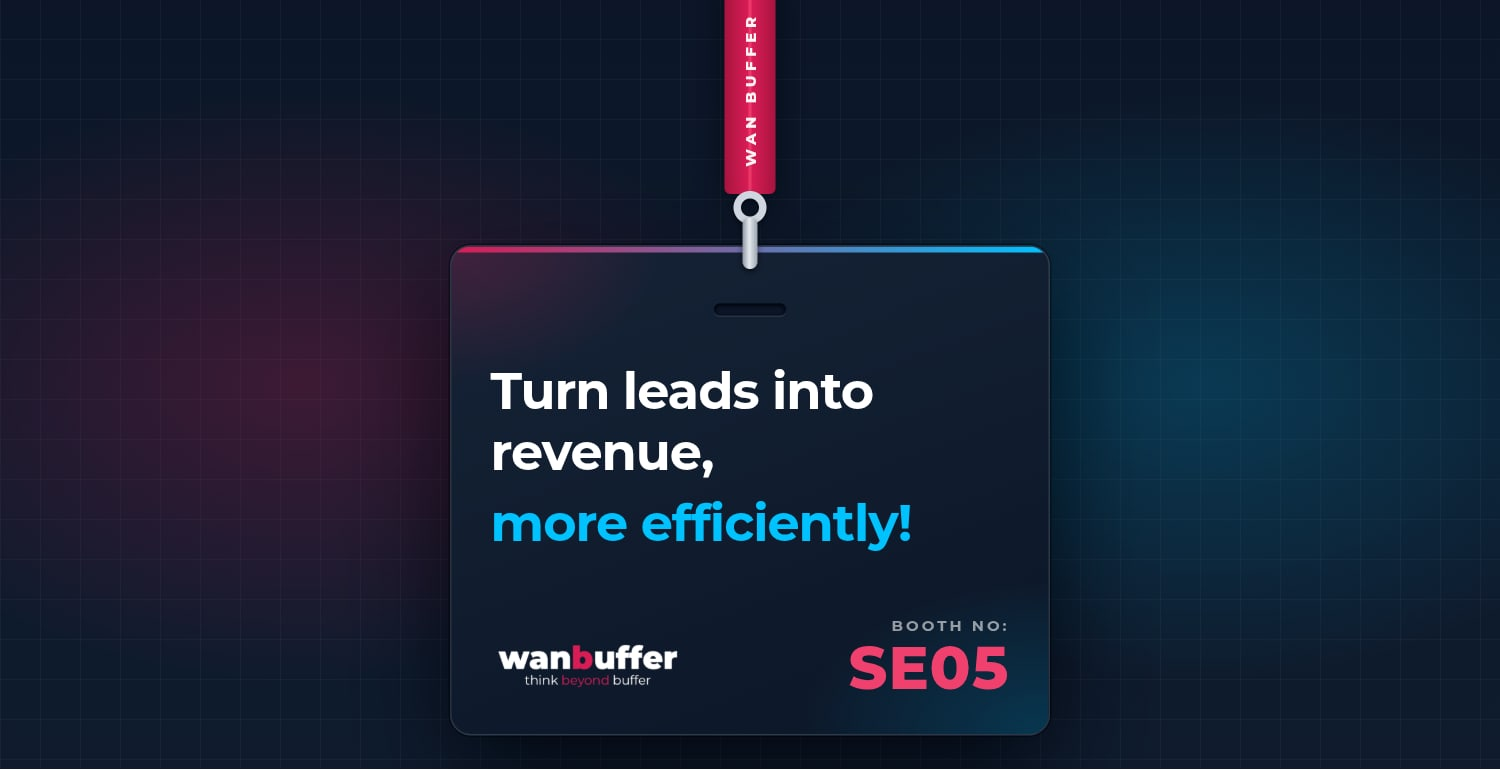
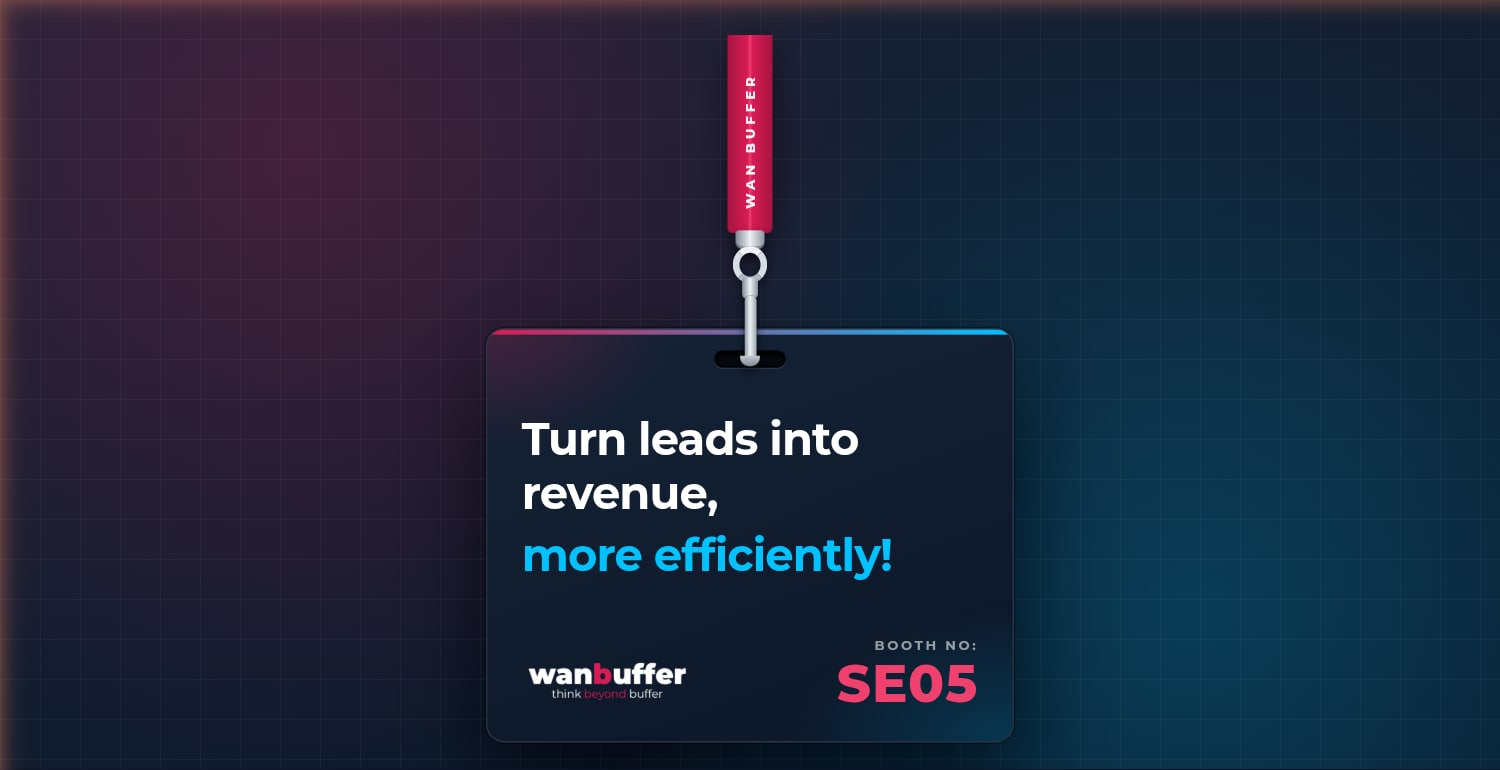
card pin updated

Changed region(s): [[0.0, 0.0, 1.0, 1.0], [0.3373, 0.8416, 0.46, 0.9039]]

diff --git a/web/app/site.css b/web/app/site.css
@@ -2604,13 +2604,16 @@ html.js .oi-evt-empty{opacity:1;transform:none}
 @keyframes oi-evt-badge-swing{0%,100%{transform:rotate(-1.2deg)}50%{transform:rotate(1.2deg)}}
 .oi-evt-badge-strap{display:flex;align-items:flex-end;justify-content:center;width:34px;height:clamp(110px,13vw,150px);background:linear-gradient(90deg,var(--red-dk) 0%,var(--red) 45%,var(--red-lt) 50%,var(--red) 55%,var(--red-dk) 100%);border-radius:0 0 4px 4px;box-shadow:0 8px 24px rgba(0,0,0,.35);padding-bottom:18px}
 .oi-evt-badge-strap span{writing-mode:vertical-rl;transform:rotate(180deg);font-family:var(--H);font-size:10px;font-weight:800;letter-spacing:.3em;text-transform:uppercase;color:var(--white);opacity:.95;white-space:nowrap}
-.oi-evt-badge-clip{position:relative;display:flex;flex-direction:column;align-items:center;margin-top:-2px;z-index:2}
-.oi-evt-badge-ring{width:22px;height:22px;border-radius:50%;border:5px solid #cfd6df;background:transparent;box-shadow:inset 0 1px 2px rgba(0,0,0,.4),0 2px 4px rgba(0,0,0,.4)}
-.oi-evt-badge-hook{width:10px;height:34px;margin-top:-4px;border-radius:5px 5px 6px 6px;background:linear-gradient(90deg,#8e97a3,#e6eaef 45%,#9aa3ae);box-shadow:0 2px 4px rgba(0,0,0,.45)}
-.oi-evt-badge-card{position:relative;width:min(100%,300px);margin-top:-16px;padding:38px 26px 24px;border-radius:14px;background:linear-gradient(160deg,var(--navy3) 0%,var(--navy) 100%);border:1px solid rgba(255,255,255,.1);box-shadow:0 30px 70px rgba(0,0,0,.5),0 0 0 1px rgba(0,0,0,.3);overflow:hidden}
+.oi-evt-badge-clip{position:relative;display:flex;flex-direction:column;align-items:center;margin-top:-2px;z-index:3;filter:drop-shadow(0 3px 4px rgba(0,0,0,.5))}
+.oi-evt-badge-crimp{width:22px;height:14px;border-radius:3px 3px 5px 5px;background:linear-gradient(90deg,#7f8894,#eef1f5 50%,#8d96a2);box-shadow:inset 0 -2px 0 rgba(0,0,0,.25)}
+.oi-evt-badge-ring{width:26px;height:28px;margin-top:-2px;border-radius:50%;border:5px solid #d7dde5;border-top-color:#eef1f5;border-bottom-color:#aeb7c2;background:transparent;box-sizing:border-box}
+.oi-evt-badge-swivel{width:12px;height:16px;margin-top:-4px;border-radius:3px 3px 4px 4px;background:linear-gradient(90deg,#7f8894,#eef1f5 50%,#8d96a2)}
+.oi-evt-badge-hook{position:relative;width:9px;height:50px;margin-top:-2px;border-radius:4px 4px 5px 5px;background:linear-gradient(90deg,#8e97a3,#eef1f5 45%,#9aa3ae);box-shadow:0 0 0 1px rgba(0,0,0,.2)}
+.oi-evt-badge-hook::after{content:'';position:absolute;left:50%;bottom:-3px;width:15px;height:8px;transform:translateX(-50%);border-radius:0 0 8px 8px;background:linear-gradient(180deg,#c3cbd4,#7f8894)}
+.oi-evt-badge-card{position:relative;width:min(100%,300px);margin-top:-26px;padding: 16px 26px 24px;border-radius:14px;background:linear-gradient(160deg,var(--navy3) 0%,var(--navy) 100%);border:1px solid rgba(255,255,255,.1);box-shadow:0 30px 70px rgba(0,0,0,.5),0 0 0 1px rgba(0,0,0,.3);overflow:hidden}
 .oi-evt-badge-card::before{content:'';position:absolute;inset:0;background:radial-gradient(60% 45% at 100% 100%,var(--ai-glow),transparent 70%),radial-gradient(50% 40% at 0% 0%,rgba(216,28,85,.22),transparent 70%);pointer-events:none}
 .oi-evt-badge-card::after{content:'';position:absolute;left:0;right:0;top:0;height:4px;background:linear-gradient(90deg,var(--red),var(--ai));}
-.oi-evt-badge-slot{display:block;width:48px;height:8px;margin:0 auto 30px;border-radius:4px;background:var(--navy);box-shadow:inset 0 1px 3px rgba(0,0,0,.8),0 1px 0 rgba(255,255,255,.08)}
+.oi-evt-badge-slot{position:relative;z-index:2;display:block;width:54px;height:13px;margin:0 auto 34px;border-radius:7px;background:#05090f;border:1px solid rgba(0,0,0,.8);box-shadow:inset 0 2px 3px rgba(0,0,0,.9),0 1px 0 rgba(255,255,255,.1)}
 .oi-evt-badge-headline{position:relative;margin:0 0 42px;font-family:var(--H);font-size:clamp(21px,2.2vw,26px);font-weight:700;line-height:1.2;letter-spacing:-.02em;color:var(--white)}
 .oi-evt-badge-headline span{display:block;color:var(--ai);margin-top:6px}
 .oi-evt-badge-foot{position:relative;display:flex;align-items:flex-end;justify-content:space-between;gap:16px}
@@ -2652,6 +2655,9 @@ html.js .oi-evt-empty{opacity:1;transform:none}
 .oi-evt-aside-card{background:var(--white);border:1px solid var(--silver);border-radius:16px;padding:22px;box-shadow:0 12px 40px rgba(11,22,39,.06)}
 .oi-evt-aside-title{font-family:var(--H);font-size:13px;font-weight:800;letter-spacing:.16em;text-transform:uppercase;color:var(--txt);margin:0 0 18px}
 .oi-evt-aside-dl{margin:0 0 20px;display:flex;flex-direction:column;gap:14px}
+.oi-evt-map{position:relative;overflow:hidden;border-radius:12px;border:1px solid var(--silver);background:var(--navy);aspect-ratio:4/3;margin-bottom:16px}
+.oi-evt-map iframe{display:block;width:100%;height:100%;border:0}
+.oi-evt-map-cta{margin-top:0}
 .oi-evt-aside-dl div{display:grid;gap:4px}
 .oi-evt-aside-dl dt{font-family:var(--H);font-size:9px;font-weight:800;letter-spacing:.18em;text-transform:uppercase;color:var(--txtm)}
 .oi-evt-aside-dl dd{font-family:var(--B);font-size:14px;font-weight:400;color:var(--txt);line-height:1.45;margin:0}

diff --git a/web/public/site-full.css b/web/public/site-full.css
@@ -2604,13 +2604,16 @@ html.js .oi-evt-empty{opacity:1;transform:none}
 @keyframes oi-evt-badge-swing{0%,100%{transform:rotate(-1.2deg)}50%{transform:rotate(1.2deg)}}
 .oi-evt-badge-strap{display:flex;align-items:flex-end;justify-content:center;width:34px;height:clamp(110px,13vw,150px);background:linear-gradient(90deg,var(--red-dk) 0%,var(--red) 45%,var(--red-lt) 50%,var(--red) 55%,var(--red-dk) 100%);border-radius:0 0 4px 4px;box-shadow:0 8px 24px rgba(0,0,0,.35);padding-bottom:18px}
 .oi-evt-badge-strap span{writing-mode:vertical-rl;transform:rotate(180deg);font-family:var(--H);font-size:10px;font-weight:800;letter-spacing:.3em;text-transform:uppercase;color:var(--white);opacity:.95;white-space:nowrap}
-.oi-evt-badge-clip{position:relative;display:flex;flex-direction:column;align-items:center;margin-top:-2px;z-index:2}
-.oi-evt-badge-ring{width:22px;height:22px;border-radius:50%;border:5px solid #cfd6df;background:transparent;box-shadow:inset 0 1px 2px rgba(0,0,0,.4),0 2px 4px rgba(0,0,0,.4)}
-.oi-evt-badge-hook{width:10px;height:34px;margin-top:-4px;border-radius:5px 5px 6px 6px;background:linear-gradient(90deg,#8e97a3,#e6eaef 45%,#9aa3ae);box-shadow:0 2px 4px rgba(0,0,0,.45)}
-.oi-evt-badge-card{position:relative;width:min(100%,300px);margin-top:-16px;padding:38px 26px 24px;border-radius:14px;background:linear-gradient(160deg,var(--navy3) 0%,var(--navy) 100%);border:1px solid rgba(255,255,255,.1);box-shadow:0 30px 70px rgba(0,0,0,.5),0 0 0 1px rgba(0,0,0,.3);overflow:hidden}
+.oi-evt-badge-clip{position:relative;display:flex;flex-direction:column;align-items:center;margin-top:-2px;z-index:3;filter:drop-shadow(0 3px 4px rgba(0,0,0,.5))}
+.oi-evt-badge-crimp{width:22px;height:14px;border-radius:3px 3px 5px 5px;background:linear-gradient(90deg,#7f8894,#eef1f5 50%,#8d96a2);box-shadow:inset 0 -2px 0 rgba(0,0,0,.25)}
+.oi-evt-badge-ring{width:26px;height:28px;margin-top:-2px;border-radius:50%;border:5px solid #d7dde5;border-top-color:#eef1f5;border-bottom-color:#aeb7c2;background:transparent;box-sizing:border-box}
+.oi-evt-badge-swivel{width:12px;height:16px;margin-top:-4px;border-radius:3px 3px 4px 4px;background:linear-gradient(90deg,#7f8894,#eef1f5 50%,#8d96a2)}
+.oi-evt-badge-hook{position:relative;width:9px;height:50px;margin-top:-2px;border-radius:4px 4px 5px 5px;background:linear-gradient(90deg,#8e97a3,#eef1f5 45%,#9aa3ae);box-shadow:0 0 0 1px rgba(0,0,0,.2)}
+.oi-evt-badge-hook::after{content:'';position:absolute;left:50%;bottom:-3px;width:15px;height:8px;transform:translateX(-50%);border-radius:0 0 8px 8px;background:linear-gradient(180deg,#c3cbd4,#7f8894)}
+.oi-evt-badge-card{position:relative;width:min(100%,300px);margin-top:-26px;padding: 16px 26px 24px;border-radius:14px;background:linear-gradient(160deg,var(--navy3) 0%,var(--navy) 100%);border:1px solid rgba(255,255,255,.1);box-shadow:0 30px 70px rgba(0,0,0,.5),0 0 0 1px rgba(0,0,0,.3);overflow:hidden}
 .oi-evt-badge-card::before{content:'';position:absolute;inset:0;background:radial-gradient(60% 45% at 100% 100%,var(--ai-glow),transparent 70%),radial-gradient(50% 40% at 0% 0%,rgba(216,28,85,.22),transparent 70%);pointer-events:none}
 .oi-evt-badge-card::after{content:'';position:absolute;left:0;right:0;top:0;height:4px;background:linear-gradient(90deg,var(--red),var(--ai));}
-.oi-evt-badge-slot{display:block;width:48px;height:8px;margin:0 auto 30px;border-radius:4px;background:var(--navy);box-shadow:inset 0 1px 3px rgba(0,0,0,.8),0 1px 0 rgba(255,255,255,.08)}
+.oi-evt-badge-slot{position:relative;z-index:2;display:block;width:54px;height:13px;margin:0 auto 34px;border-radius:7px;background:#05090f;border:1px solid rgba(0,0,0,.8);box-shadow:inset 0 2px 3px rgba(0,0,0,.9),0 1px 0 rgba(255,255,255,.1)}
 .oi-evt-badge-headline{position:relative;margin:0 0 42px;font-family:var(--H);font-size:clamp(21px,2.2vw,26px);font-weight:700;line-height:1.2;letter-spacing:-.02em;color:var(--white)}
 .oi-evt-badge-headline span{display:block;color:var(--ai);margin-top:6px}
 .oi-evt-badge-foot{position:relative;display:flex;align-items:flex-end;justify-content:space-between;gap:16px}
@@ -2652,6 +2655,9 @@ html.js .oi-evt-empty{opacity:1;transform:none}
 .oi-evt-aside-card{background:var(--white);border:1px solid var(--silver);border-radius:16px;padding:22px;box-shadow:0 12px 40px rgba(11,22,39,.06)}
 .oi-evt-aside-title{font-family:var(--H);font-size:13px;font-weight:800;letter-spacing:.16em;text-transform:uppercase;color:var(--txt);margin:0 0 18px}
 .oi-evt-aside-dl{margin:0 0 20px;display:flex;flex-direction:column;gap:14px}
+.oi-evt-map{position:relative;overflow:hidden;border-radius:12px;border:1px solid var(--silver);background:var(--navy);aspect-ratio:4/3;margin-bottom:16px}
+.oi-evt-map iframe{display:block;width:100%;height:100%;border:0}
+.oi-evt-map-cta{margin-top:0}
 .oi-evt-aside-dl div{display:grid;gap:4px}
 .oi-evt-aside-dl dt{font-family:var(--H);font-size:9px;font-weight:800;letter-spacing:.18em;text-transform:uppercase;color:var(--txtm)}
 .oi-evt-aside-dl dd{font-family:var(--B);font-size:14px;font-weight:400;color:var(--txt);line-height:1.45;margin:0}

diff --git a/web/components/pages/event-detail-content.tsx b/web/components/pages/event-detail-content.tsx
@@ -227,6 +227,29 @@ export function EventDetailContent({ event }: EventDetailContentProps) {
                 <ArrowRightIcon />
               </Link>
             </div>
+            {event.venueMap ? (
+              <div className="oi-evt-aside-card oi-evt-map-card">
+                <h2 className="oi-evt-aside-title">Venue map</h2>
+                <div className="oi-evt-map">
+                  <iframe
+                    src={`https://www.google.com/maps?q=${encodeURIComponent(event.venueMap.query)}&output=embed`}
+                    title={event.venueMap.label}
+                    loading="lazy"
+                    allowFullScreen
+                    referrerPolicy="no-referrer-when-downgrade"
+                  />
+                </div>
+                <a
+                  className="oi-evt-aside-cta oi-evt-map-cta"
+                  href={`https://www.google.com/maps/search/?api=1&query=${encodeURIComponent(event.venueMap.query)}`}
+                  target="_blank"
+                  rel="noopener noreferrer"
+                >
+                  Open in Google Maps
+                  <ArrowRightIcon />
+                </a>
+              </div>
+            ) : null}
             <Link className="oi-evt-back" href="/event">
               ← All events
             </Link>

diff --git a/web/lib/events-data.ts b/web/lib/events-data.ts
@@ -24,6 +24,13 @@ export interface EventContentSection {
   bullets?: string[];
 }
 
+export interface EventVenueMap {
+  /** Free-text place query passed to Google Maps (search + embed). */
+  query: string;
+  /** Accessible title for the embedded map. */
+  label: string;
+}
+
 export interface EventHeroBadge {
   /** First headline line, white. */
   headline: string;
@@ -51,6 +58,7 @@ export interface WanBufferEvent {
   hideHeroImage?: boolean;
   /** Lanyard-style booth badge shown in the detail hero instead of the image. */
   heroBadge?: EventHeroBadge;
+  venueMap?: EventVenueMap;
   priceLabel: string;
   introParagraphs: string[];
   hosts?: EventHost[];
@@ -141,6 +149,10 @@ export const SEAMLESS_2026_EVENT: WanBufferEvent = {
     headline: "Turn leads into revenue,",
     tagline: "more efficiently!",
     booth: "SE05",
+  },
+  venueMap: {
+    query: "Dubai World Trade Centre, Sheikh Zayed Road, Dubai, UAE",
+    label: "Map of Dubai World Trade Centre, Dubai",
   },
   priceLabel: "Free",
   introParagraphs: [

diff --git a/web/components/pages/event-hero-badge.tsx b/web/components/pages/event-hero-badge.tsx
@@ -19,7 +19,9 @@ export function EventHeroBadge({ badge }: EventHeroBadgeProps) {
         <span>Wan Buffer</span>
       </div>
       <div className="oi-evt-badge-clip" aria-hidden="true">
+        <span className="oi-evt-badge-crimp" />
         <span className="oi-evt-badge-ring" />
+        <span className="oi-evt-badge-swivel" />
         <span className="oi-evt-badge-hook" />
       </div>
       <div className="oi-evt-badge-card">
